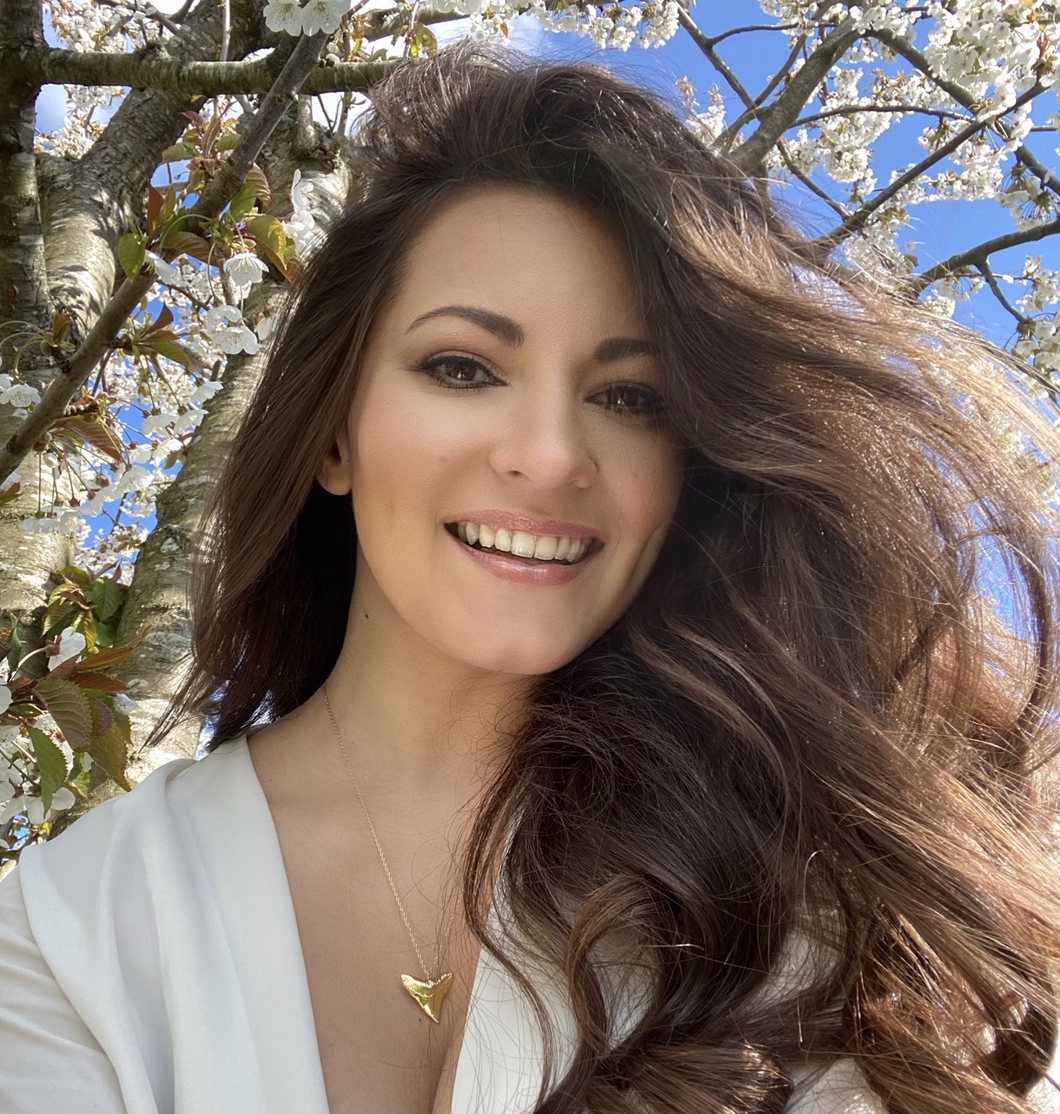
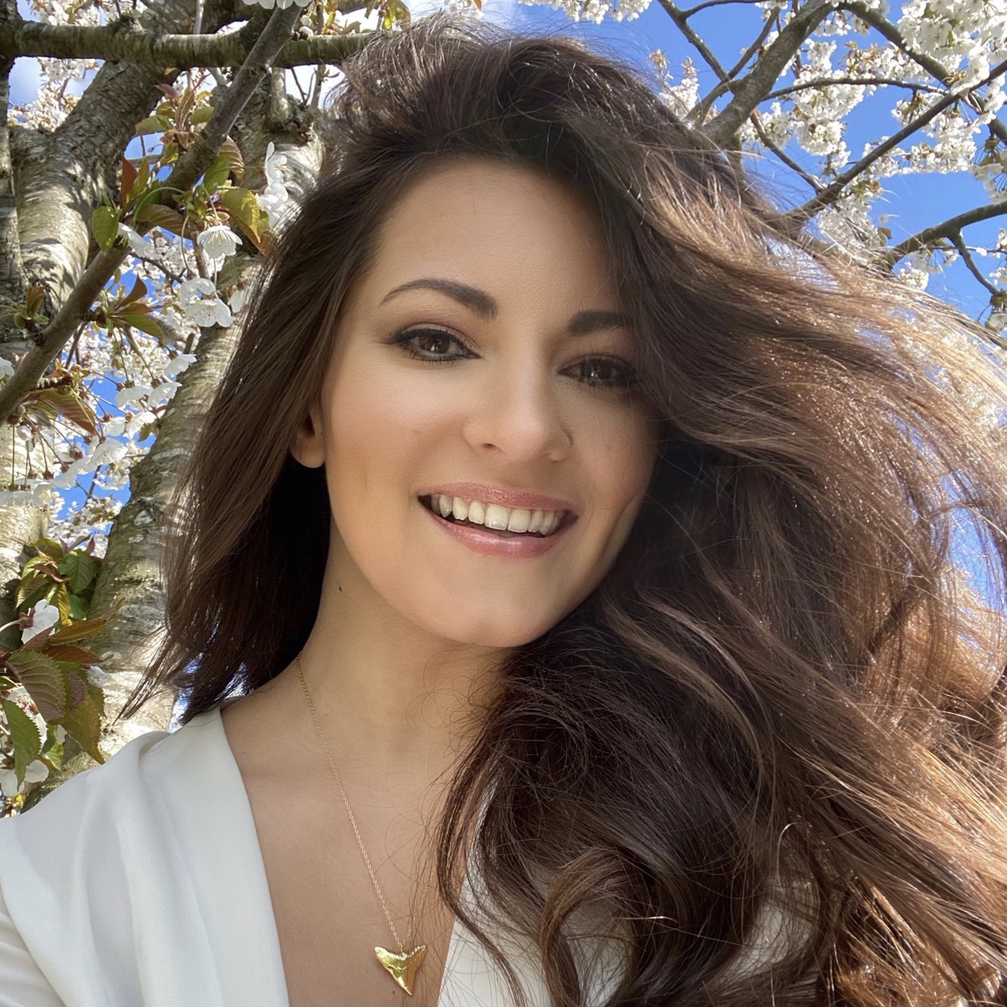
Edit photo styling

diff --git a/about.html b/about.html
@@ -70,7 +70,7 @@
             <a href="/work.html" class="btn btn-branding">See my projects</a>
           </div>
         </div>
-        <div class="col-md-6">
+        <div class="victoria-photo col-md-6">
           <img
             src="images/Victoria profile.jpg"
             alt="Victoria profile photo"

diff --git a/styles/portfolio.css b/styles/portfolio.css
@@ -82,6 +82,12 @@ h3 a {
   padding: 40px 20px;
 }
 
+.victoria-photo img {
+  width: 450px;
+  height: 450px;
+  margin-top: 30px;
+}
+
 .image1 img {
   display: block;
   margin: auto;
